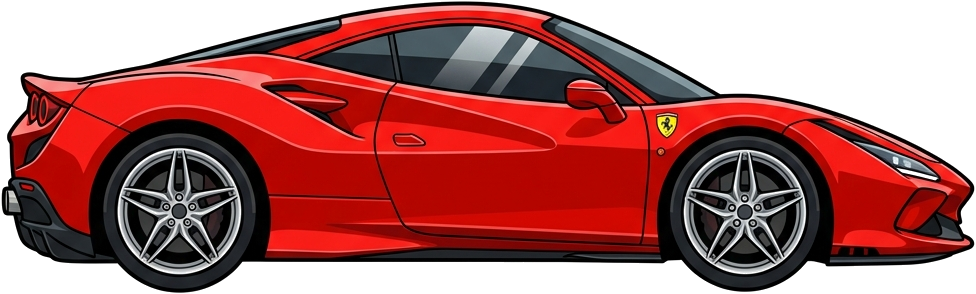
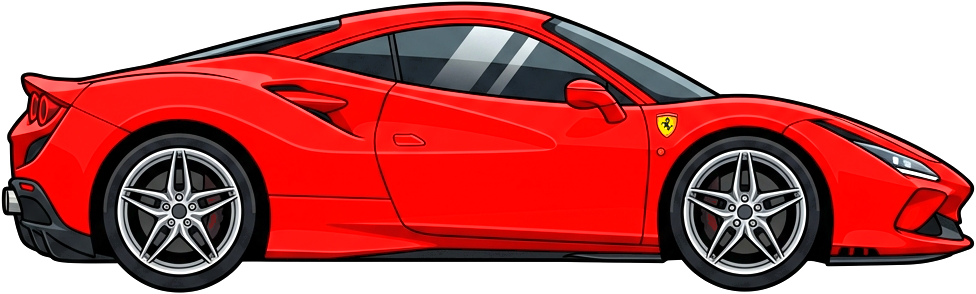
Update app 2026-09-09 14:44:14

diff --git a/index.html b/index.html
@@ -511,6 +511,7 @@
       object-fit: contain;
       display: block;
       pointer-events: none;
+      filter: brightness(1.15) saturate(1.3);
     }
 
     .shipper-car-offline {
@@ -533,11 +534,11 @@
       max-height: 12px;
       object-fit: contain;
       transform: scaleX(-1);
-      filter: drop-shadow(0 1px 2px rgba(0, 0, 0, .25));
+      filter: brightness(1.12) saturate(1.25) drop-shadow(0 1px 2px rgba(0, 0, 0, .25));
     }
 
     .shipper-side-car-img.offline {
-      filter: grayscale(1) opacity(0.45);
+      filter: grayscale(1) opacity(0.45) !important;
       transform: scaleX(-1);
     }
 
